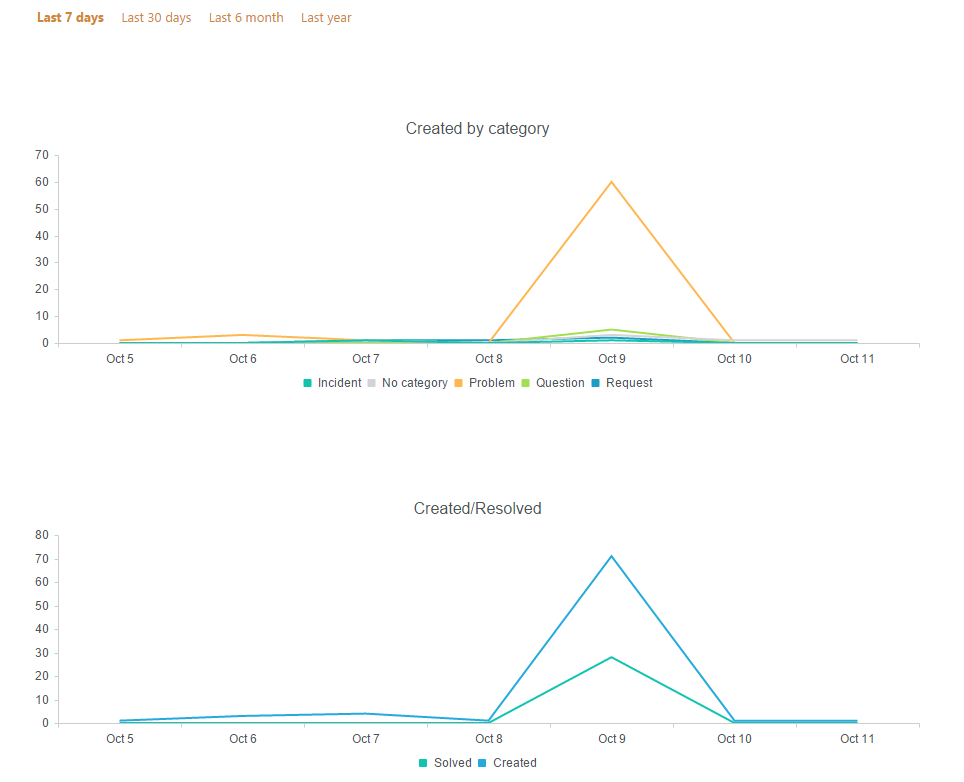
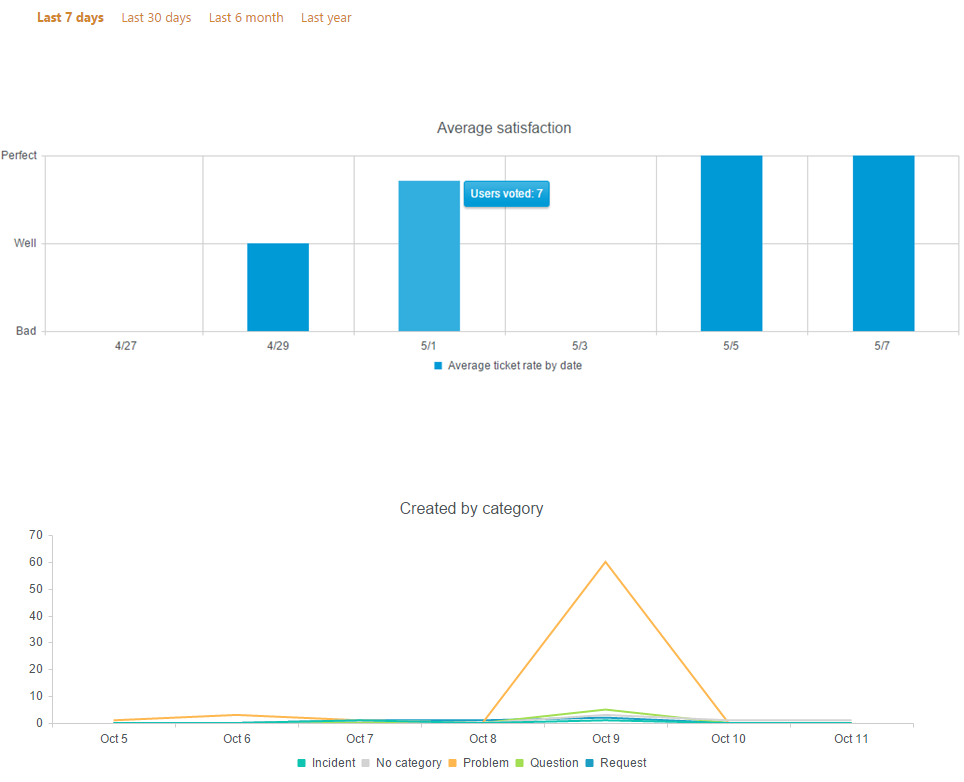
New docs

diff --git a/Online/Configuration Guide/Feedback.rst b/Online/Configuration Guide/Feedback.rst
@@ -1,0 +1,66 @@
+Customer service survey
+#######################
+
+Customer service survey is a feature that allows your customers to provide a feedback on work of support teams by rating solved tickets. 
+By default, when ticket marked as ‘Solved’, the user receives a notification letter about solved ticket with the survey:  
+
+|Feedback|
+
+Providing a rate for customer service is quite user-friendly and quick. Additionally, customers can give more feedback by adding a comment.
+
+How to add feedback snippet to your messages
+~~~~~~~~~~~~~~~~~~~~~~~~~~~~~~~~~~~~~~~~~~~~
+
+Snippet ``{{snippet:FeedbackLink}}`` is automatically added in email notification template of a built-in trigger called “Notification: Requester – Ticket resolved”. 
+
+|FeedbackSnippet| 
+
+This snippet adds the rating question and three pictures with different ratings for the agent — perfect, well and bad. We assume that pictures are quite self-explanatory. These ratings have internal value like 1 is for bad, 2 is for well and 3 is for perfect. End-Users will never know about it, we use these value only for building `reports`_.
+
+You can easily remove the snippet from the trigger as well as you can customize time when End-Users are asked for a satisfaction rating. Just add the snippet in email notification template of your own trigger or any other trigger. 
+
+End-user experience
+~~~~~~~~~~~~~~~~~~~~
+
+Users don’t need to have SharePoint or Office 365 account to give a feedback. Click on the survey re-directs End-User to a new page which loads in the new tab with ‘Thank you’ text and additional form for a comment.
+
+|CommentAfterFeedback|
+
+This URL is unique. That means that End-User can not change his mind — assessment happens only once. If the ticket was re-open, it’s the only case when rating can be changed. 
+Satisfaction rating works per ticket, so one end-users can rate every solved ticket they have submitted.
+
+Reports
+~~~~~~~
+
+With feedback feature, you will have three new reports:
+
+1. Overview of customer satisfaction surveys. 
+On overview page, you can find overall customer satisfaction score. By clicking on one of the emoticons, you can learn which tickets were rated like that and find comment which were left.
+
+|Overview|
+
+2. Average ticket rate by assignee. 
+This report shows average satisfaction for the agent and number of users who voted. 
+
+|ByAssignee|
+
+3. Average ticket rate by date 
+Here you can learn how work of support team was rated day by day.
+
+|ByDate|
+
+
+.. |Feedback| image:: /_static/img/Feedback.png
+   :alt: Feedback
+.. |FeedbackSnippet| image:: /_static/img/FeedbackSnippet.png
+   :alt: Feedback Snippet
+.. |CommentAfterFeedback| image:: /_static/img/CommentAfterFeedback.png
+   :alt: Comment After Feedback
+.. |ByAssignee| image:: /_static/img/CSSByAssignee.png
+   :alt: Average ticket rate by assignee. 
+.. |Overview| image:: /_static/img/CSSOverview.png
+   :alt: Overview of customer satisfaction surveys.
+.. |ByDate| image:: /_static/img/CSSByDate.png
+   :alt: Average ticket rate by date 
+
+.. _reports: https://plumsail.com/docs/help-desk-o365/v1.x/User%20Guide/Reports.html

diff --git a/Online/User Guide/Reports.rst b/Online/User Guide/Reports.rst
@@ -1,0 +1,101 @@
+Reports
+#######
+
+In this section, you are able to create diagrams based on all tickets,
+requesters, and agents. Here you can analyze efficiency and intensity of
+HelpDesk usage, personal productivity of each agent, find most active
+requesters and do other kinds of information analysis with your HelpDesk
+data.
+
+Go to Reports by clicking the appropriate button in the navbar:
+
+|reports-icon|
+
+On all pages (except “Overview”) you can apply quick date filters to
+only show data in the last: 7 days, 30 days, 6 months, year.
+
+You can modify charts using `Dashboard Designer`_. It is another
+Plumsail product with a separate pricing.
+
+Overview
+~~~~~~~~
+
+It is a dashboard representing all HelpDesk tickets. The dashboard
+consists of four charts:
+
+Tickets by state 
+   Shows how many unassigned, overdue, in progress
+   and new tickets are created.
+
+Tickets by category 
+   Shows how many tickets are created within a
+   specific category (Ticket field “Category”).
+
+Tickets by agents 
+   Shows how many overdue and non-overdue tickets
+   each agent has (Ticket field “Due date”).
+
+Active requesters (Top 10)
+   Shows top 10 requesters by a number of tickets created.
+
+Overview of customer satisfaction surveys
+   Shows overall customer satisfaction score. By clicking on one of the emoticons, you can learn which tickets were rated like that and find comment which were left.
+
+|overview|
+
+By date
+~~~~~~~
+
+Here you can see two timelines. The vertical axis represents an amount of
+tickets, the horizontal axis represents a date of ticket creation.
+
+Created by category 
+   Shows the amount of tickets created within a specific
+   category and a specified interval (Ticket field “Category”).
+
+Created/Resolved 
+   Shows the amount of tickets created and the amount of tickets
+   resolved within specified interval.
+
+Average satisfaction
+   Shows how work of support team was rated day by day.
+
+|by-date|
+
+|by-date-1|
+
+By assignee
+~~~~~~~~~~~
+
+Next charts represent information related to assignee:
+
+Performance (Avg solved per day) 
+   Shows average resolved tickets per
+   day within specified interval.
+
+Resolved by assignee 
+   Shows the amount of tickets resolved by assignee
+   within specified interval.
+   
+Average satisfaction
+   Shows average satisfaction for the agent and number of users who voted. 
+
+|By-assignee|
+
+|By-assignee-1|
+
+
+.. _Dashboard Designer: http://spchart.com/
+
+.. |reports-icon| image:: /_static/img/reports-icon.png
+   :alt: Reports Navigation Icon
+.. |overview| image:: /_static/img/OverviewReports.png
+   :alt: Overview
+.. |by-date| image:: /_static/img/by-date.png
+   :alt: By date
+.. |by-date-1| image:: /_static/img/by-date-1.png
+   :alt: By date
+.. |By-assignee| image:: /_static/img/by-assignee.png
+   :alt: By assignee
+.. |By-assignee-1| image:: /_static/img/by-assignee-1.png
+   :alt: By assignee

diff --git a/OnPremises/User Guide/Reports.rst b/OnPremises/User Guide/Reports.rst
@@ -35,9 +35,8 @@ Tickets by agents
    Shows how many overdue and non-overdue tickets
    each agent has (Ticket field “Due date”).
 
-Active requesters (Top 10) 
-   Shows top 10 requesters by a number of
-   tickets created.
+Active requesters (Top 10)
+   Shows top 10 requesters by a number of tickets created.
 
 |overview|
 
@@ -75,13 +74,9 @@ Resolved by assignee
 By requester
 ~~~~~~~~~~~~
 
-This chart which shows how many active tickets and tickets resolved by
-requester exist within specified interval. An active ticket is a ticket
-with one of the following statuses: “In progress” or “New”. You can see
-how many tickets are unresolved yet (Active) and how many tickets are
-resolved by the requester (Resolved).
+This chart which shows how many active tickets and tickets resolved by requester exist within specified interval. An active ticket is a ticket with one of the following statuses: “In progress” or “New”. You can see how many tickets are unresolved yet (Active) and how many tickets are resolved by the requester (Resolved).
 
-|by-requester|
+|By-requester|
 
 .. _Dashboard Designer: http://spchart.com/
 
@@ -93,5 +88,5 @@ resolved by the requester (Resolved).
    :alt: By date
 .. |By-assignee| image:: /_static/img/by-assignee.png
    :alt: By assignee
-.. |by-requester| image:: /_static/img/by-requester.png
+.. |By-requester| image:: /_static/img/by-requester.png
    :alt: By requester

diff --git a/Online/General/Versionhistory.rst b/Online/General/Versionhistory.rst
@@ -1,8 +1,18 @@
 Version history
 ###############
 
+Version 1.3.1
+-------------
+
+New features:
+
+- We added prevention of deletion for HelpDesk mailbox field in tickets list.
+- Requesters can now leave feedback and rate service on the tickets.
+- Other minor bugfixes and performance optimizations.
+
 Version 1.3.0
 --------------
+
 New features:
 
 - Major improvements in triggers and scheduler functionality and new user-friendly editor.

diff --git a/Online/index.rst b/Online/index.rst
@@ -40,6 +40,7 @@ Office 365 documentation articles
       Configuration Guide/Email settings
       Configuration Guide/Triggers
       Configuration Guide/Widget
+      Configuration Guide/Feedback
       Configuration Guide/Scheduling
       Configuration Guide/Appearance
       Configuration Guide/Color theme
